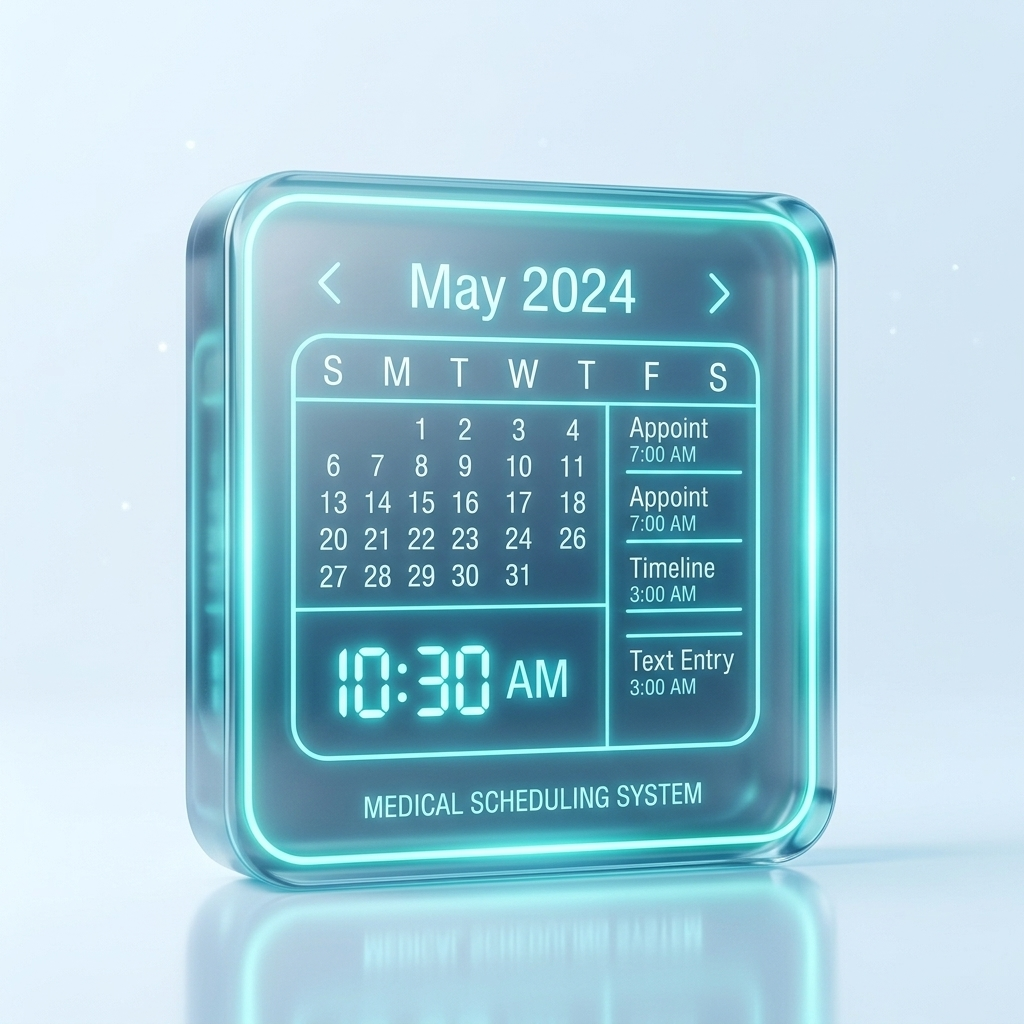
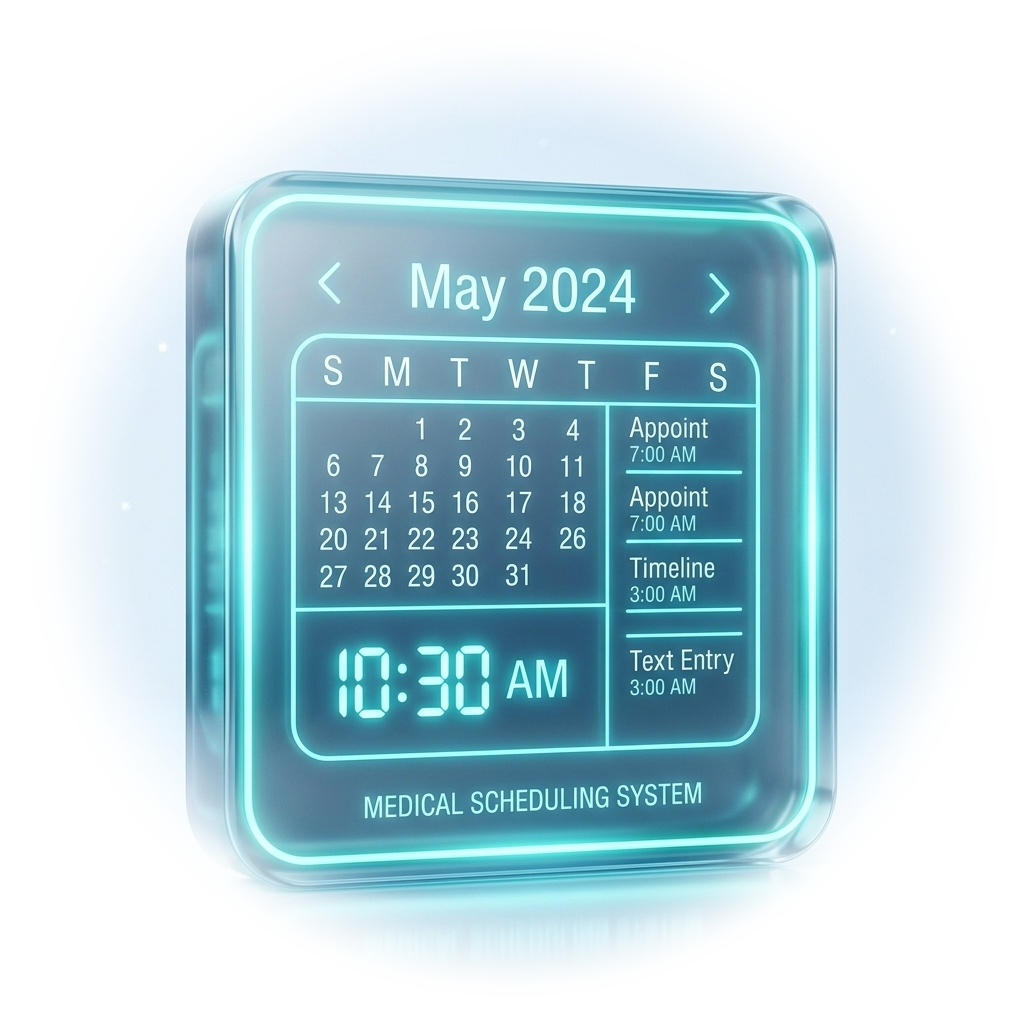
feat(ui): integracion de iconografia 3D holografica con difuminado radial a blanco en las 6 tarjetas restantes del ecosistema

diff --git a/index.html b/index.html
@@ -447,60 +447,60 @@
 
                     <div class="col-md-6 col-lg-4">
                         <div class="holo-card p-4 rounded-4 h-100 border-holo bg-white d-flex flex-column">
-                            <div class="d-flex align-items-center mb-3">
-                                <div class="icon-container-acrylic me-3"><i class="bi bi-database-fill-gear text-navy"></i></div>
-                                <h5 class="fw-bold text-navy mb-0">Catálogos Maestros</h5>
+                            <div class="mb-3 text-center">
+                                <img src="img/holo/catalogos.png" alt="Módulo de Catálogos Maestros" class="img-fluid holo-module-img">
                             </div>
+                            <h4 class="fw-bold text-navy text-center border-bottom pb-2 mb-3">Catálogos Maestros</h4>
                             <p class="text-secondary-clinical small mb-0 mt-auto">Gestión 100% personalizable de servicios e insumos (SKU/Precios), sincronizada nativamente con catálogos oficiales del estado mexicano (Entidades, CP, Salud).</p>
                         </div>
                     </div>
 
                     <div class="col-md-6 col-lg-4">
                         <div class="holo-card p-4 rounded-4 h-100 border-holo bg-white d-flex flex-column">
-                            <div class="d-flex align-items-center mb-3">
-                                <div class="icon-container-acrylic me-3"><i class="bi bi-file-earmark-medical text-navy"></i></div>
-                                <h5 class="fw-bold text-navy mb-0">Visor Radiológico</h5>
+                            <div class="mb-3 text-center">
+                                <img src="img/holo/visor_radiologico.png" alt="Módulo de Visor Radiológico DICOM" class="img-fluid holo-module-img">
                             </div>
+                            <h4 class="fw-bold text-navy text-center border-bottom pb-2 mb-3">Visor Radiológico</h4>
                             <p class="text-secondary-clinical small mb-0 mt-auto">Soporte nativo para formatos de imagenología internacional. Facilita el análisis y el diagnóstico visual de apoyo directamente dentro del expediente del paciente.</p>
                         </div>
                     </div>
 
                     <div class="col-md-6 col-lg-4">
                         <div class="holo-card p-4 rounded-4 h-100 border-holo bg-white d-flex flex-column">
-                            <div class="d-flex align-items-center mb-3">
-                                <div class="icon-container-acrylic me-3"><i class="bi bi-fingerprint text-navy"></i></div>
-                                <h5 class="fw-bold text-navy mb-0">Auditoría y Trazabilidad</h5>
+                            <div class="mb-3 text-center">
+                                <img src="img/holo/auditoria.png" alt="Módulo de Auditoría y Trazabilidad" class="img-fluid holo-module-img">
                             </div>
+                            <h4 class="fw-bold text-navy text-center border-bottom pb-2 mb-3">Auditoría y Trazabilidad</h4>
                             <p class="text-secondary-clinical small mb-0 mt-auto">Cada acción queda registrada bajo estrictos roles de usuario (RBAC). Dispersión de comisiones automática y arqueo ciego sin margen para errores humanos.</p>
                         </div>
                     </div>
                     
                     <div class="col-md-6 col-lg-4">
                         <div class="holo-card p-4 rounded-4 h-100 border-holo bg-white d-flex flex-column">
-                            <div class="d-flex align-items-center mb-3">
-                                <div class="icon-container-acrylic me-3"><i class="bi bi-person-badge text-navy"></i></div>
-                                <h5 class="fw-bold text-navy mb-0">Portal del Paciente</h5>
+                            <div class="mb-3 text-center">
+                                <img src="img/holo/portal_paciente.png" alt="Portal del Paciente" class="img-fluid holo-module-img">
                             </div>
+                            <h4 class="fw-bold text-navy text-center border-bottom pb-2 mb-3">Portal del Paciente</h4>
                             <p class="text-secondary-clinical small mb-0 mt-auto">Espacio opcional donde tu paciente consulta citas, historial financiero de pagos y adeudos, imageneología, estudios de laboratorio, odontogramas y firma consentimientos. Transparencia clínica que fideliza.</p>
                         </div>
                     </div>
                     
                     <div class="col-md-6 col-lg-4">
                         <div class="holo-card p-4 rounded-4 h-100 border-holo bg-white d-flex flex-column">
-                            <div class="d-flex align-items-center mb-3">
-                                <div class="icon-container-acrylic me-3"><i class="bi bi-envelope-at text-navy"></i></div>
-                                <h5 class="fw-bold text-navy mb-0">Mensajería Integrada</h5>
+                            <div class="mb-3 text-center">
+                                <img src="img/holo/mensajeria.png" alt="Módulo de Mensajería Integrada" class="img-fluid holo-module-img">
                             </div>
+                            <h4 class="fw-bold text-navy text-center border-bottom pb-2 mb-3">Mensajería Integrada</h4>
                             <p class="text-secondary-clinical small mb-0 mt-auto">Envía correos electrónicos directamente desde la plataforma. Mantén el registro histórico 1 a 1 dentro del expediente de cada paciente, aislando y protegiendo por completo tu buzón personal.</p>
                         </div>
                     </div>
                     
                     <div class="col-md-6 col-lg-4">
                         <div class="holo-card p-4 rounded-4 h-100 border-holo bg-white d-flex flex-column">
-                            <div class="d-flex align-items-center mb-3">
-                                <div class="icon-container-acrylic me-3"><i class="bi bi-whatsapp text-success"></i></div>
-                                <h5 class="fw-bold text-navy mb-0">Alertas WhatsApp</h5>
+                            <div class="mb-3 text-center">
+                                <img src="img/holo/whatsapp.png" alt="Módulo de Alertas WhatsApp" class="img-fluid holo-module-img">
                             </div>
+                            <h4 class="fw-bold text-navy text-center border-bottom pb-2 mb-3">Alertas WhatsApp</h4>
                             <p class="text-secondary-clinical small mb-0 mt-auto">Automatización nativa de avisos importantes y recordatorios de citas. Comunicación humana y directa con tus pacientes, sin utilizar bots frustrantes.</p>
                         </div>
                     </div>

diff --git a/docs/04_standards_and_ops/guia_estilo_ui_ux.md b/docs/04_standards_and_ops/guia_estilo_ui_ux.md
@@ -451,12 +451,19 @@ Para garantizar accesibilidad universal (WCAG 2.1 AA/AAA) y consistencia editori
      - **3a. Odontograma** (`img/showcase-odontograma.png`): Refactorizado en tonos clínicos claros (#F8FBFF, azul marino y teal), con mapeo anatómico 3D, selector radial y estandarización visual.
      - **4a. Vista detalle** (`img/showcase-vista-detalle.png`): Refactorizado en tema claro clínico, con exploración sagital en porcelana HD, categorización de patologías y presupuesto instantáneo.
      - **5a. Visor DICOM** (`img/showcase-visor-dicom.png`): Visualizador radiológico avanzado integrado al expediente clínico con reconstrucción tridimensional craneofacial, ajuste de calibradores milimétricos, paleta clara clínica (#F8FBFF y teal) y anonimización rigurosa de datos del paciente conforme a NOM-004 e HIPAA.
-5. **Iconografía Holográfica 3D de Módulos Core (`img/holo/`)**:
-   - Refactorización de las ilustraciones de los 3 módulos principales del Ecosistema para garantizar máxima legibilidad en tarjetas compactas (altura 120px, `.holo-module-img`):
-     - **Agenda Inteligente** (`img/holo/agenda.png`): Bloque cúbico de cristal translúcido biselado con calendario digital 3D, cuadrícula de citas, reloj clínico e iluminación perimetral en neón cyan/teal.
+5. **Iconografía Holográfica 3D de Módulos del Ecosistema (`img/holo/`)**:
+   - Refactorización de las ilustraciones de los 9 módulos de la plataforma para garantizar máxima legibilidad, identidad cohesiva y fusión perfecta con el fondo de las tarjetas (altura 120px, `.holo-module-img`):
+     - **Agenda Inteligente** (`img/holo/agenda.png`): Bloque de cristal translúcido biselado con calendario digital 3D, cuadrícula de citas, reloj clínico e iluminación perimetral en neón cyan/teal.
      - **Expediente Clínico 5.0** (`img/holo/expediente.png`): Bloque de cristal biselado con carpeta médica / portapapeles 3D, cruz clínica, monitor de pulso ECG y rótulo de alta legibilidad *"EXPEDIENTE CLÍNICO"*.
      - **Caja Inteligente** (`img/holo/caja.png`): Bloque de cristal biselado con terminal de cobro digital inteligente / caja registradora POS 3D, ranura de tarjeta, teclado numérico, símbolo monetario y rótulo *"CAJA Y FINANZAS"*.
-   - **Homologación**: Mismo tamaño (1024x1024), misma perspectiva frontal/isométrica suave, idéntico acabado en cristal acrílico con reflejos de estudio y supresión de elementos satelitales diminutos que degradaban la comprensión visual a pequeña escala.
+     - **Catálogos Maestros** (`img/holo/catalogos.png`): Bloque de cristal con servidores de base de datos cilíndricos, engranes clínicos, árbol de catálogos CIE-10/servicios y rótulo *"CATÁLOGOS"*.
+     - **Visor Radiológico** (`img/holo/visor_radiologico.png`): Bloque de cristal con radiografía ósea digital en neón cyan, calibradores y retículas milimétricas DICOM, y rótulo *"VISOR DICOM"*.
+     - **Auditoría y Trazabilidad** (`img/holo/auditoria.png`): Bloque de cristal con escáner biométrico de huella digital, escudo de candado criptográfico, cronología de accesos y rótulo *"AUDITORÍA Y TRAZABILIDAD"*.
+     - **Portal del Paciente** (`img/holo/portal_paciente.png`): Bloque de cristal con credencial médica digital, escudo clínico verificado, lista de servicios (citas, laboratorio, recetas) y rótulo *"PORTAL DEL PACIENTE"*.
+     - **Mensajería Integrada** (`img/holo/mensajeria.png`): Bloque de cristal con sobre de correo clínico flotante, pulso ECG interno, checkmark de entrega garantizada y rótulo *"MENSAJERÍA INTEGRADA"*.
+     - **Alertas WhatsApp** (`img/holo/whatsapp.png`): Bloque de cristal con isotipo de globo conversacional WhatsApp, campana médica de notificación en neón esmeralda y rótulo *"ALERTAS WHATSAPP"*.
+   - **Técnica de Difuminado Radial al Blanco (Seamless Card Blending)**: Las 9 imágenes aplican un algoritmo de fundido radial (`smoothstep` entre radio 370px y 485px, más margen perimetral) que degrada matemáticamente cualquier tinte de fondo hacia blanco puro (`#FFFFFF`) en los bordes, eliminando bordes duros y fusionando cada imagen de forma invisible con el fondo de las tarjetas `.holo-card`.
+   - **Homologación**: Mismo tamaño (1024x1024), misma perspectiva frontal/isométrica suave, idéntico acabado en cristal acrílico con reflejos de estudio y supresión de elementos satelitales diminutos.
 
 
 
